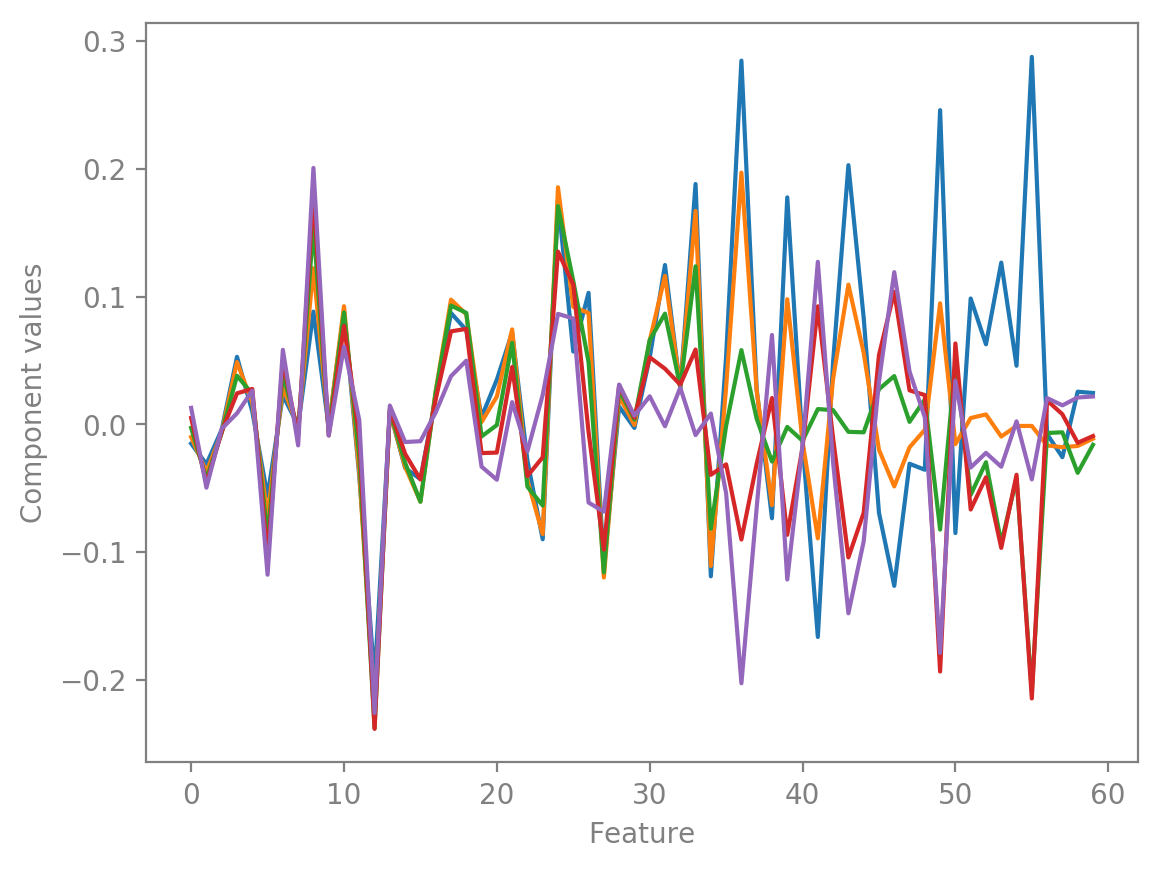
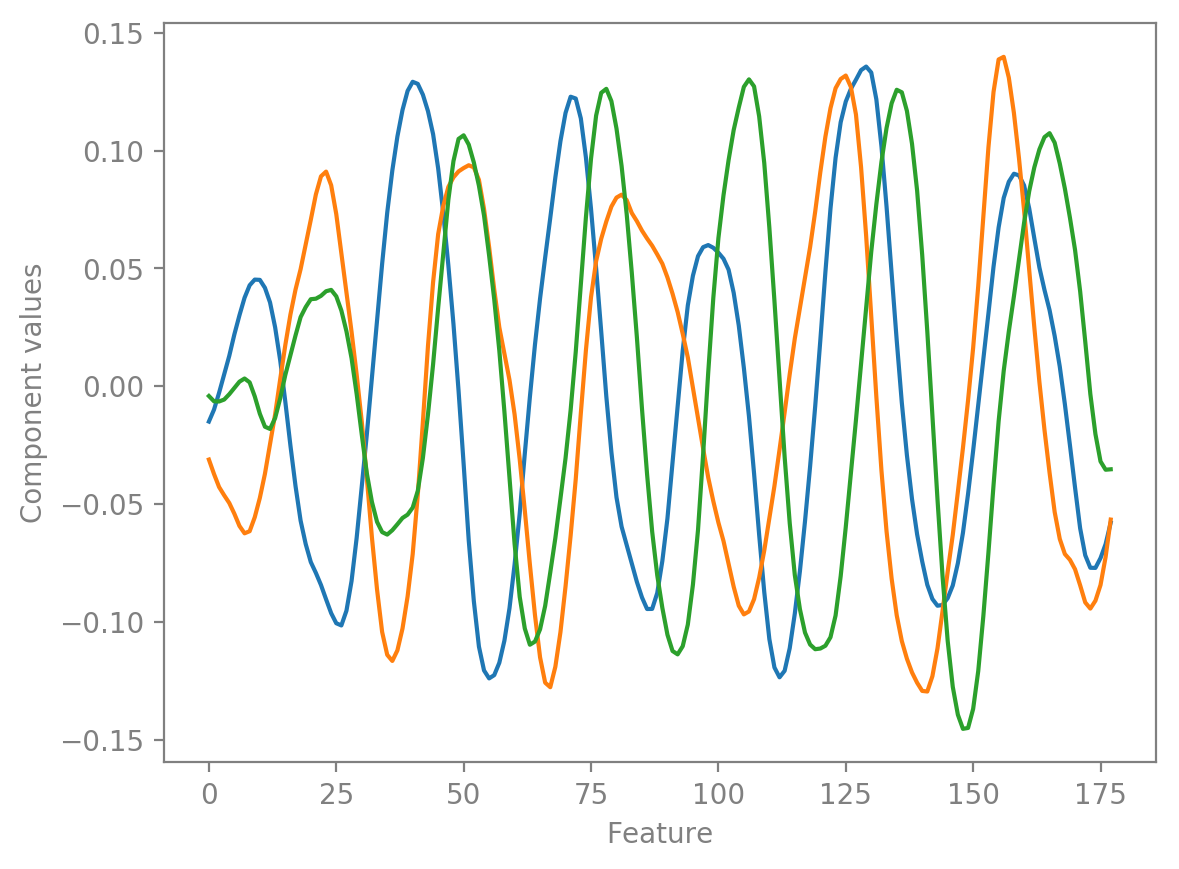
Fixed the plot of the first three PCA components

diff --git a/epiclass.py b/epiclass.py
@@ -74,7 +74,7 @@ def main():
     """
     epidata = pd.read_csv(os.path.join('data', 'data.csv'))
     set_matplotlib_params()
-    explore_data(epidata)
+    # explore_data(epidata)
     features = epidata.drop(['y', 'Unnamed: 0'], axis=1) / 2047.0
     target = epidata['y']
     x_train, x_test, y_train, y_test = train_test_split(features, target,
@@ -409,7 +409,7 @@ def explore_pca(x_train, y_train, n_components=TOTAL_PCA_COMPONENTS):
                                 os.path.join('outputs', 'var_ratio_sum.png'))
     first_two_pca_scatter(transformed[:, :2], y_train,
                           os.path.join('outputs', 'two_pca_components.png'))
-    plot_components(components[:, :5], os.path.join('outputs',
+    plot_components(components[:3, :], os.path.join('outputs',
                                                     'pca_components.png'))
 
 
@@ -428,7 +428,7 @@ def plot_components(components, filename):
         None
     """
     plot_axes = plt.subplot(1, 1, 1)
-    plot_axes.plot(components)
+    plot_axes.plot(components.transpose())
     plot_axes.set_xlabel('Feature')
     plot_axes.set_ylabel('Component values')
     fig = plot_axes.get_figure()

diff --git a/README.md b/README.md
@@ -78,9 +78,7 @@ This shows that you need 32 components to capture more than 90% of the explained
 
 Here's a plot of the first five PCA components vs the original features:
 
-![Plot of first five PA components](/outputs/pca_components.png "First five PA components")
-
-You can see the how the data structure that we saw above in the heatmap and the correlations with X90 have affected the PCA components - the components show that same alternating pattern with the same wavelength.
+![Plot of first three PA components](/outputs/pca_components.png "First three PA components")
 
 I then plotted the data points projected onto the first two PCA components, to give an idea of how well the PCA has done in generating a space in which we can separate the classes:
 ![data points projected onto the first two PCA components](/outputs/two_pca_components.png "data points projected onto the first two PCA components")
